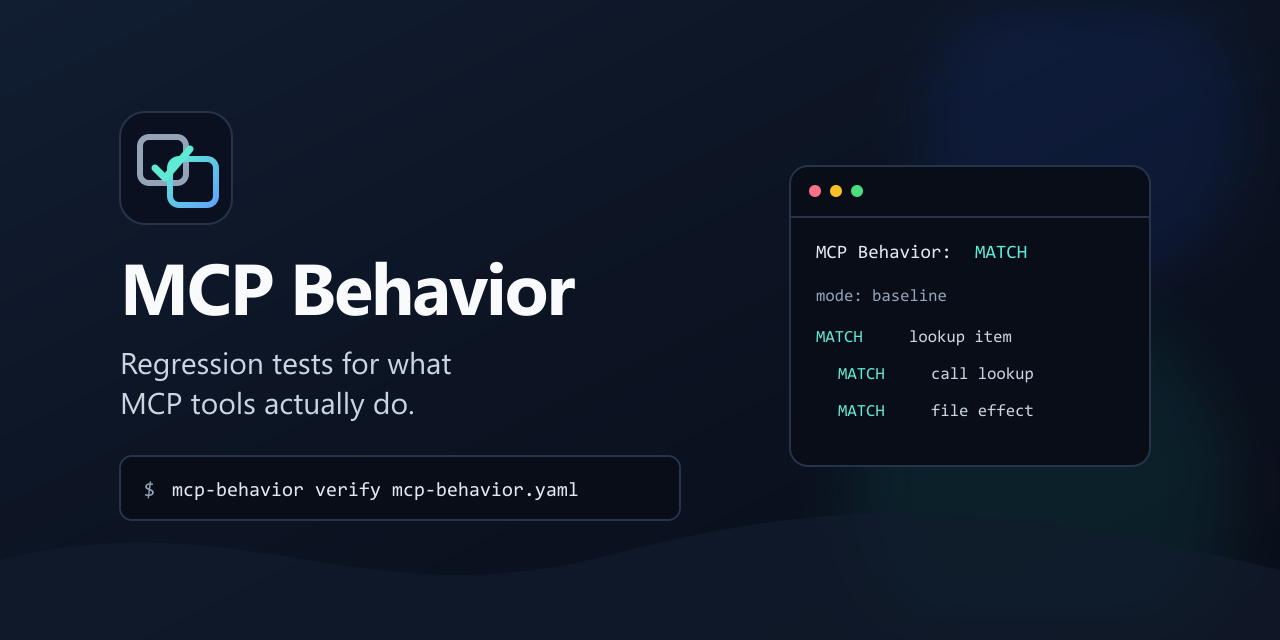
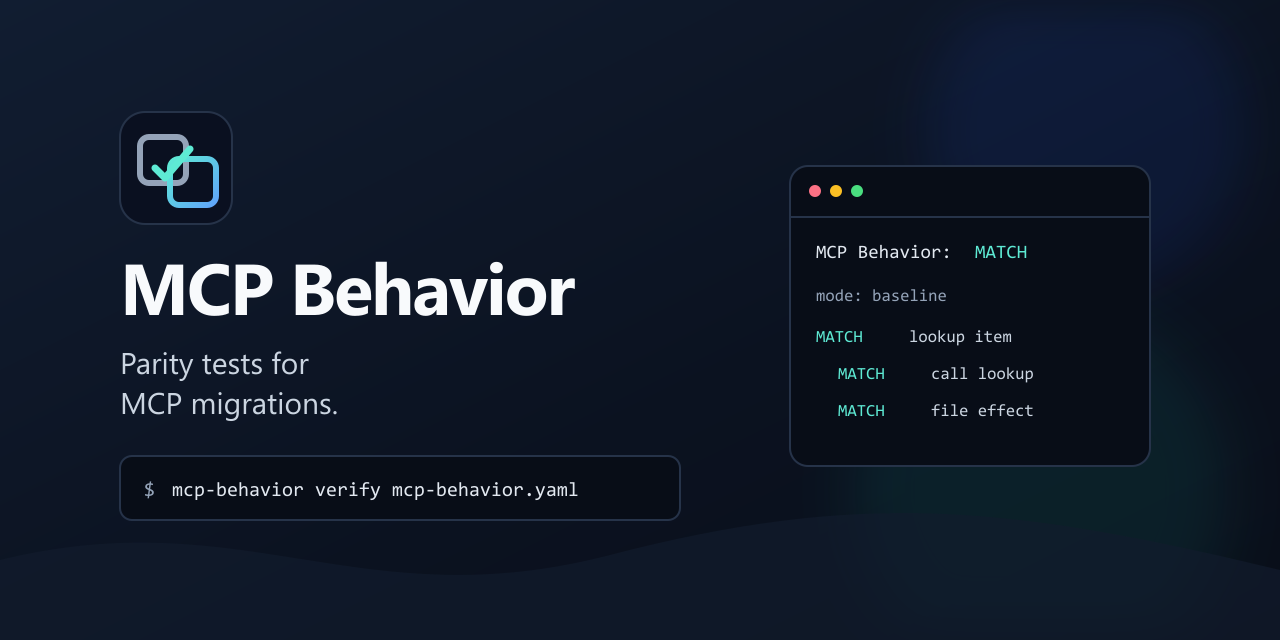
Prepare GitHub source release

Changed region(s): [[0.0938, 0.5625, 0.3438, 0.5938], [0.1562, 0.625, 0.3125, 0.6562]]

diff --git a/src/mcp_behavior/cli.py b/src/mcp_behavior/cli.py
@@ -54,7 +54,9 @@ def main(argv: Sequence[str] | None = None) -> int:
 def _parser() -> argparse.ArgumentParser:
     parser = argparse.ArgumentParser(
         prog="mcp-behavior",
-        description="Deterministic regression tests for what MCP tools actually do.",
+        description=(
+            "Parity tests for MCP migrations, including tool results and observable side effects."
+        ),
         epilog=(
             "Start with `mcp-behavior init`, then run `mcp-behavior verify mcp-behavior.yaml`."
         ),

diff --git a/README.md b/README.md
@@ -1,23 +1,22 @@
 <div align="center">
   <img src="docs/assets/logo.svg" width="112" alt="MCP Behavior logo">
   <h1>MCP Behavior</h1>
-  <p>Deterministic regression tests for what MCP tools actually do.</p>
+  <p>Parity tests for MCP migrations, including returned values and observable side effects.</p>
 
   [![CI](https://github.com/GWeale/mcp-behavior/actions/workflows/ci.yml/badge.svg)](https://github.com/GWeale/mcp-behavior/actions/workflows/ci.yml)
-  [![PyPI](https://img.shields.io/pypi/v/mcp-behavior.svg)](https://pypi.org/project/mcp-behavior/)
-  [![Python](https://img.shields.io/pypi/pyversions/mcp-behavior.svg)](https://pypi.org/project/mcp-behavior/)
+  [![Python](https://img.shields.io/badge/python-3.11%2B-3776AB.svg)](https://www.python.org/downloads/)
   [![License](https://img.shields.io/badge/license-Apache--2.0-blue.svg)](LICENSE)
 </div>
 
-An MCP tool schema describes an interface. It cannot tell you whether a migration changed the returned values, wrote a different file, or updated the wrong database row. MCP Behavior runs named scenarios and compares the results plus any effects you explicitly observe.
+An MCP tool schema can remain unchanged while a rewrite returns a different business value, writes the wrong file, or updates the wrong database row. MCP Behavior runs the same named scenario against the old and new servers, then compares the results plus any effects you explicitly observe.
 
 It supports three workflows:
 
 | Workflow | What it compares |
 |---|---|
-| Expectations | One live target against assertions in YAML |
-| Baseline | One live target against a reviewed JSON recording |
 | Differential | A candidate and reference MCP server against each other |
+| Baseline | One live target against a reviewed JSON recording |
+| Expectations | One live target against assertions in YAML |
 
 Every run ends as `MATCH`, `DIVERGE`, or `INCONCLUSIVE`. The process exits with code 0, 1, or 2 respectively. Uncertainty never passes as a match.
 
@@ -49,16 +48,16 @@ The runnable [differential example](examples/differential/) produces this result
 
 ## Install
 
-MCP Behavior requires Python 3.11 or newer.
+MCP Behavior requires Python 3.11 or newer. Until the first package release, install the current alpha directly from GitHub:
 
 ```bash
-pipx install mcp-behavior
+pipx install git+https://github.com/GWeale/mcp-behavior.git
 ```
 
 You can also run it without a persistent install:
 
 ```bash
-uvx mcp-behavior --help
+uvx --from git+https://github.com/GWeale/mcp-behavior.git mcp-behavior --help
 ```
 
 ## 60-second quickstart
@@ -168,11 +167,13 @@ mcp-behavior verify mcp-behavior.yaml \
 The repository also includes a composite GitHub Action:
 
 ```yaml
-- uses: GWeale/mcp-behavior@v0.1.0
+- uses: GWeale/mcp-behavior@main
   with:
     contract: mcp-behavior.yaml
     report: .mcp-behavior/report.xml
 ```
+
+`main` is the alpha channel until the first versioned release. Pin a commit SHA if your CI requires an immutable action reference.
 
 See [CI setup](docs/CI.md) for artifact upload and test-report publishing examples.
 
@@ -209,7 +210,7 @@ The verification core owns connection management, ordering, time budgets, cleanu
 
 ## What this project covers
 
-MCP Behavior focuses on executed values and declared effects. Use the official MCP Inspector for interactive protocol debugging, the MCP conformance suite for protocol compliance, `mcp-contracts` for schema compatibility, and `mcp-lock` for package integrity. The [positioning note](docs/POSITIONING.md) records the boundary and links to those projects.
+MCP Behavior focuses on parity during an MCP server migration: run the same workflow against two implementations and compare returned values plus declared state changes. Use the official MCP Inspector for interactive exploration and general scripted calls, the conformance suite for protocol compliance, MCP Test Harness for broad code-first server testing, `mcp-contracts` for schema compatibility, and `mcp-lock` for package integrity. The [positioning note](docs/POSITIONING.md) records the boundary and links to those projects.
 
 ## Documentation
 
@@ -232,4 +233,4 @@ MCP Behavior focuses on executed values and declared effects. Use the official M
 - [Contributor issue drafts](docs/CONTRIBUTOR_ISSUES.md)
 - [Contributing](CONTRIBUTING.md)
 
-The project is preparing its first alpha release. Contract and evidence schemas are versioned; backward compatibility starts with the first published release.
+This repository is an alpha. Contract and evidence schemas are versioned; backward compatibility starts with the first versioned release.

diff --git a/docs/POSITIONING.md b/docs/POSITIONING.md
@@ -1,16 +1,18 @@
 # Positioning
 
-Updated: 2026-08-08
+Updated: 2026-08-11
 
 ## One sentence
 
-MCP Behavior runs the same declared scenario against MCP implementations and proves whether their returned values and observable effects agree.
+MCP Behavior is a parity gate for MCP migrations: it runs the same declared scenario against old and new servers, then compares returned values and observable effects.
 
 ## The gap
 
-The official MCP Inspector is interactive developer tooling for connecting to and exercising servers. The official conformance framework validates protocol implementations. `mcp-contracts` snapshots and compares exposed schemas and runs schema-oriented boundary checks. `mcp-lock` pins package identity and integrity.
+The official MCP Inspector provides Web, TUI, and scriptable CLI clients for inspecting and exercising servers. Its CLI works in automation and CI. The official conformance framework validates protocol implementations. `mcp-contracts` snapshots and compares exposed schemas and runs schema-oriented boundary checks. `mcp-lock` pins package identity and integrity.
 
-Those are useful adjacent tools. MCP Behavior deliberately starts after protocol and schema validity: a tool can keep the same name, description, and JSON Schema while returning a different business result, writing the wrong file, or mutating the wrong state.
+Broader test frameworks also overlap with parts of MCP Behavior. MCP Test Harness is a code-first framework for functional, snapshot, performance, resiliency, and security testing. MCP Observatory focuses on CI-native security testing, schema drift, and health scoring.
+
+MCP Behavior takes a narrower path. It starts after protocol and schema validity, at the point where a team is replacing or refactoring a server. A tool can keep the same name, description, and JSON Schema while returning a different business result, writing the wrong file, or mutating the wrong state. Differential execution and declared effect observers make that migration visible in one reviewable report.
 
 ## In scope
 
@@ -37,3 +39,5 @@ Those are useful adjacent tools. MCP Behavior deliberately starts after protocol
 - MCP conformance: https://github.com/modelcontextprotocol/conformance
 - MCP Contracts: https://github.com/mcp-contracts/mcp-contracts
 - MCP Lock: https://github.com/mcpguards/mcp-lock
+- MCP Test Harness: https://github.com/vaquarkhan/mcp-test-harness
+- MCP Observatory: https://github.com/KryptosAI/mcp-observatory

diff --git a/docs/PUBLICATION_CHECKLIST.md b/docs/PUBLICATION_CHECKLIST.md
@@ -6,7 +6,7 @@ Use this checklist when the local release candidate is approved for publication.
 
 - Repository: `GWeale/mcp-behavior`
 - Visibility: public
-- Description: `Deterministic regression tests for what MCP tools actually do.`
+- Description: `Parity tests for MCP migrations, including tool results and observable side effects.`
 - Website: leave empty until the documentation has a stable public URL
 - Topics: `mcp`, `model-context-protocol`, `testing`, `regression-testing`, `python`, `developer-tools`, `ai-agents`
 - Social preview: upload `docs/assets/social-preview.png`
@@ -19,12 +19,12 @@ Confirm the README logo, demo, badges, install command, examples, security bound
 - Apply the labels in `.github/labels.yml` and open the reviewed drafts from `docs/CONTRIBUTOR_ISSUES.md`.
 - Disable the wiki unless it has a maintained purpose.
 - Enable private vulnerability reporting, Dependabot alerts, and automated security updates.
-- Add a `pypi` environment with required reviewer approval.
 - Protect `main`: require pull requests, the `CI / test` matrix, resolved conversations, and no force pushes or deletions.
 - Preserve squash, rebase, or merge commits according to the maintainer's preference; automatically delete merged branches.
 
 ## Release plumbing
 
+- GitHub-only source publication was approved on 2026-08-11. PyPI publishing, tags, and GitHub Releases require separate approval.
 - Configure a PyPI trusted publisher for `.github/workflows/release.yml`, environment `pypi`.
 - Push the reviewed `main` commit and wait for every CI job to pass.
 - Confirm all twelve operating-system and Python matrix jobs pass.

diff --git a/STATUS.md b/STATUS.md
@@ -4,7 +4,7 @@ Updated: 2026-08-11
 
 ## Current phase
 
-Corrected local v0.1.0 release candidate is complete and awaiting explicit publication approval. No remote repository, package, tag, issue, or remote setting has been created.
+GitHub-only source publication was approved on 2026-08-11. The reviewed alpha will be published as `GWeale/mcp-behavior`; no package, tag, GitHub Release, or announcement is approved.
 
 ## Completed
 
@@ -46,11 +46,9 @@ Corrected local v0.1.0 release candidate is complete and awaiting explicit publi
 - The configured Linux/macOS/Windows CI matrix and composite action cannot be verified remotely until the reviewed commit is pushed.
 - GitHub and package-registry name availability must be repeated immediately before creating public resources.
 
-## Publication boundary
+## Next actions
 
-The remaining work changes public state and requires explicit approval:
-
-- Create the public `GWeale/mcp-behavior` GitHub repository and push `main`.
+- Create the public `GWeale/mcp-behavior` GitHub repository and push the reviewed `main` commit.
 - Wait for the complete CI matrix, then apply repository topics, social preview, labels, issues, security settings, and branch protection.
-- Configure PyPI trusted publishing, tag `v0.1.0`, and publish the GitHub/PyPI release.
-- Verify the public install, checksums, release assets, and composite action from a separate repository.
+- Verify source installation, every README command, and the composite action from clean environments.
+- Request separate approval before configuring PyPI, creating a tag or GitHub Release, or announcing the project.

diff --git a/docs/RELEASE_AUDIT.md b/docs/RELEASE_AUDIT.md
@@ -89,6 +89,6 @@ This ledger maps the v0.1.0 release requirements to code, public artifacts, and 
 
 ## Publication boundary
 
-The local candidate may be committed and rebuilt without changing public state. The following remain prohibited until explicit approval: creating the public repository, pushing, applying remote settings, opening issues, creating a tag or release, publishing to PyPI, or announcing the project.
+GitHub-only source publication was approved on 2026-08-11. That approval covers creating `GWeale/mcp-behavior`, pushing the reviewed commit, applying repository settings, and opening the reviewed contributor issues.
 
-After approval, follow [PUBLICATION_CHECKLIST.md](PUBLICATION_CHECKLIST.md), publish only the reviewed commit, wait for the full CI matrix, verify the composite action in a separate repository, install from PyPI, and rerun every README command from a fresh environment. The release is incomplete until those public checks pass.
+Tags, GitHub Releases, PyPI publishing, and announcements remain outside the approved scope. After the source repository is public, wait for the full CI matrix and verify the README commands plus composite action from clean environments.

diff --git a/docs/CI.md b/docs/CI.md
@@ -19,7 +19,7 @@ jobs:
     runs-on: ubuntu-latest
     steps:
       - uses: actions/checkout@v6
-      - uses: GWeale/mcp-behavior@v0.1.0
+      - uses: GWeale/mcp-behavior@main
         with:
           contract: mcp-behavior.yaml
           evidence: .mcp-behavior/evidence
@@ -31,7 +31,7 @@ jobs:
           path: .mcp-behavior/
 ```
 
-The action installs the pinned release specified by its `version` input, runs verification, writes JUnit, and leaves evidence for later upload. It does not upload artifacts on its own.
+The action installs MCP Behavior from the selected Action ref, runs verification, writes JUnit, and leaves evidence for later upload. It does not upload artifacts on its own. `main` is the alpha channel until the first versioned release; pin a commit SHA for an immutable action reference.
 
 The repository CI matrix runs Python 3.11 through 3.14 on Ubuntu, macOS, and Windows. Its package job builds the wheel and source archive, verifies their metadata and provenance, installs the wheel in a fresh environment, and runs all five public examples with their documented exit codes.
 

diff --git a/docs/PROVENANCE.md b/docs/PROVENANCE.md
@@ -20,7 +20,7 @@ The logo, social preview, and terminal demo are original repository-native SVG a
 
 ## Project name
 
-An exact-name check on 2026-08-08 found no `mcp-behavior` project on GitHub, PyPI, or npm. The availability check must be repeated immediately before the public repository and package are created.
+An exact-name check on 2026-08-11 found no `GWeale/mcp-behavior` repository on GitHub and no `mcp-behavior` project on PyPI. Package availability must be checked again before a package release.
 
 ## License review
 
